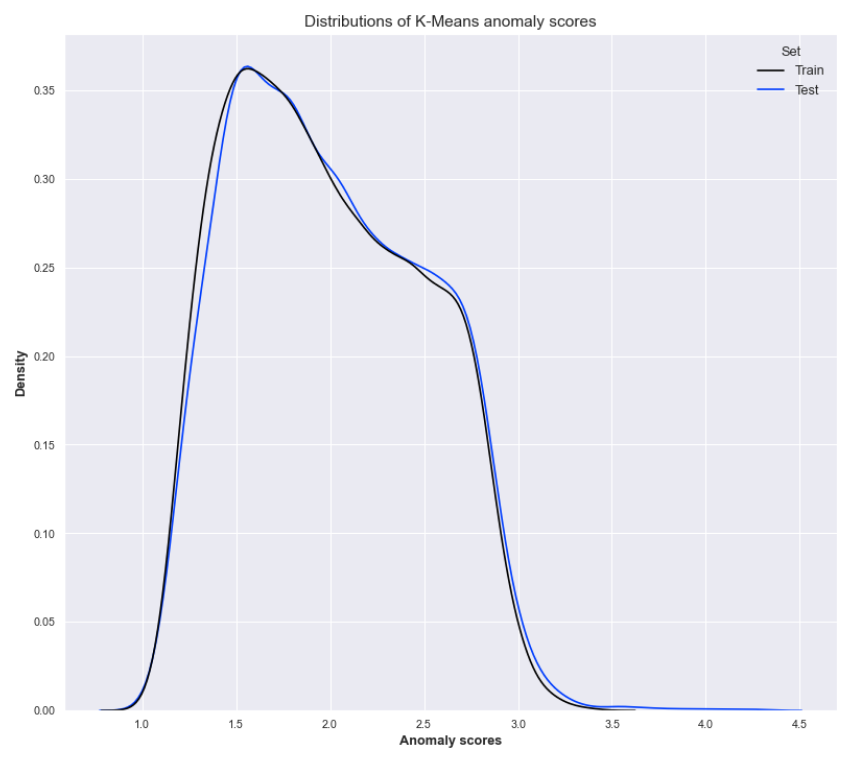
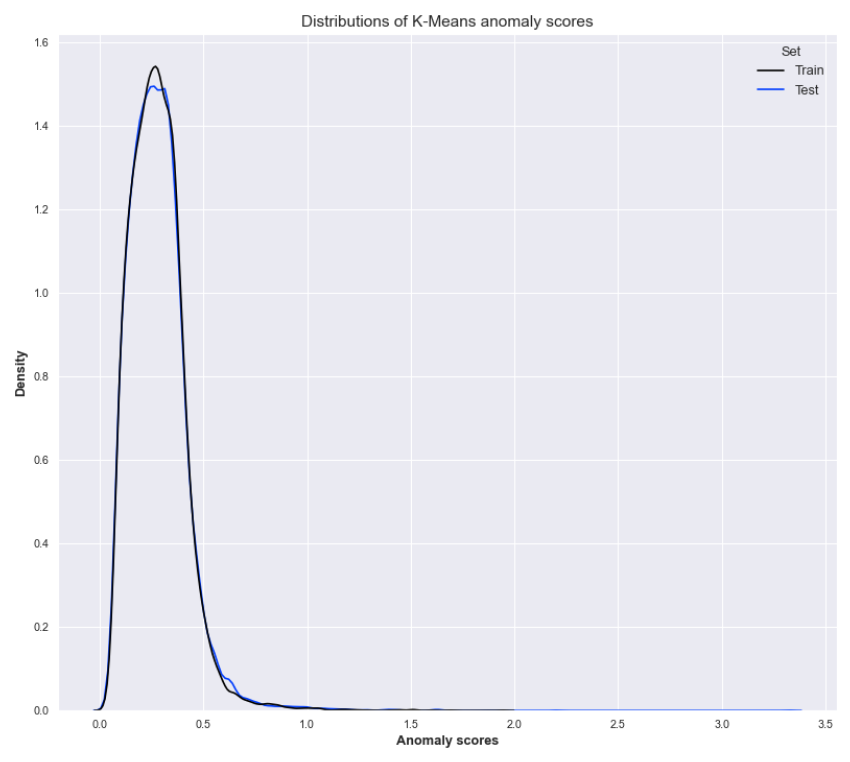
Add 3D cluster plot to K-Means

diff --git a/ScriptsAnomDetect/3.1_AnomDetectClustering.py b/ScriptsAnomDetect/3.1_AnomDetectClustering.py
@@ -26,7 +26,7 @@ ts_test = scaler.transform(ts_test)
 
 
 # Fit K-means scorer on train set
-scorer_kmeans = KMeansScorer(window = 30, k = 12, random_state = 1923)
+scorer_kmeans = KMeansScorer(window = 1, k = 12, random_state = 1923)
 _ = scorer_kmeans.fit(ts_train)
 scores_train = scorer_kmeans.score(ts_train)
 scores_test = scorer_kmeans.score(ts_test)
@@ -63,4 +63,21 @@ _ = sns.kdeplot(data = df_scores, x = "Anomaly scores", hue = "Set")
 _ = plt.title("Distributions of K-Means anomaly scores")
 plt.show()
 plt.close("all")
+
+
+# Clustering plot
+train_labels = scorer_kmeans.model.labels_.astype(str)
+fig = px.scatter_3d(
+  x = ts_train['MEAN_TEMPERATURE_OTTAWA'].univariate_values(),
+  y = ts_train['TOTAL_PRECIPITATION_OTTAWA'].univariate_values(),
+  z = ts_train.time_index.month,
+  color = train_labels,
+  title = "K-Means clustering, Ottawa pre-1980",
+  labels = {
+    "x": "Mean temperature",
+    "y": "Total precipitation",
+    "z": "Month",
+    "color": "Clusters"}
+)
+fig.show()
 

diff --git a/ScriptsAnomDetect/1_DataPrep.py b/ScriptsAnomDetect/1_DataPrep.py
@@ -6,6 +6,7 @@ import pandas as pd
 import numpy as np
 import matplotlib.pyplot as plt
 import seaborn as sns
+import plotly.express as px
 import arff
 from darts.timeseries import TimeSeries
 from darts.dataprocessing.transformers.missing_values_filler import MissingValuesFiller
